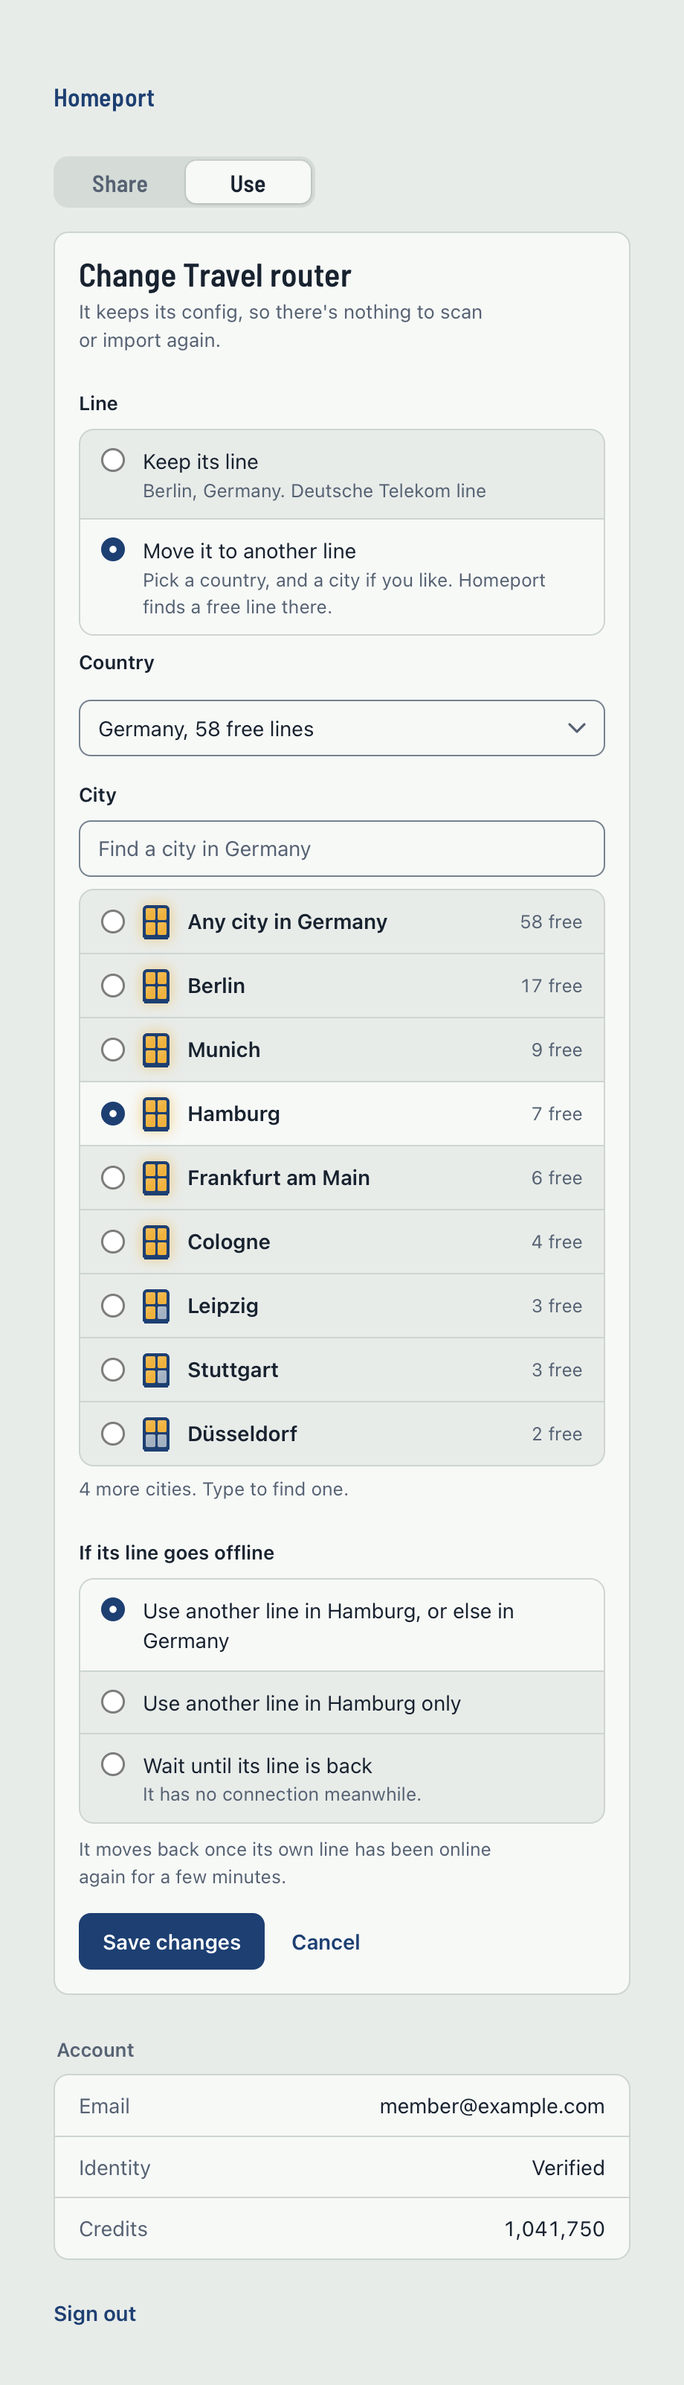
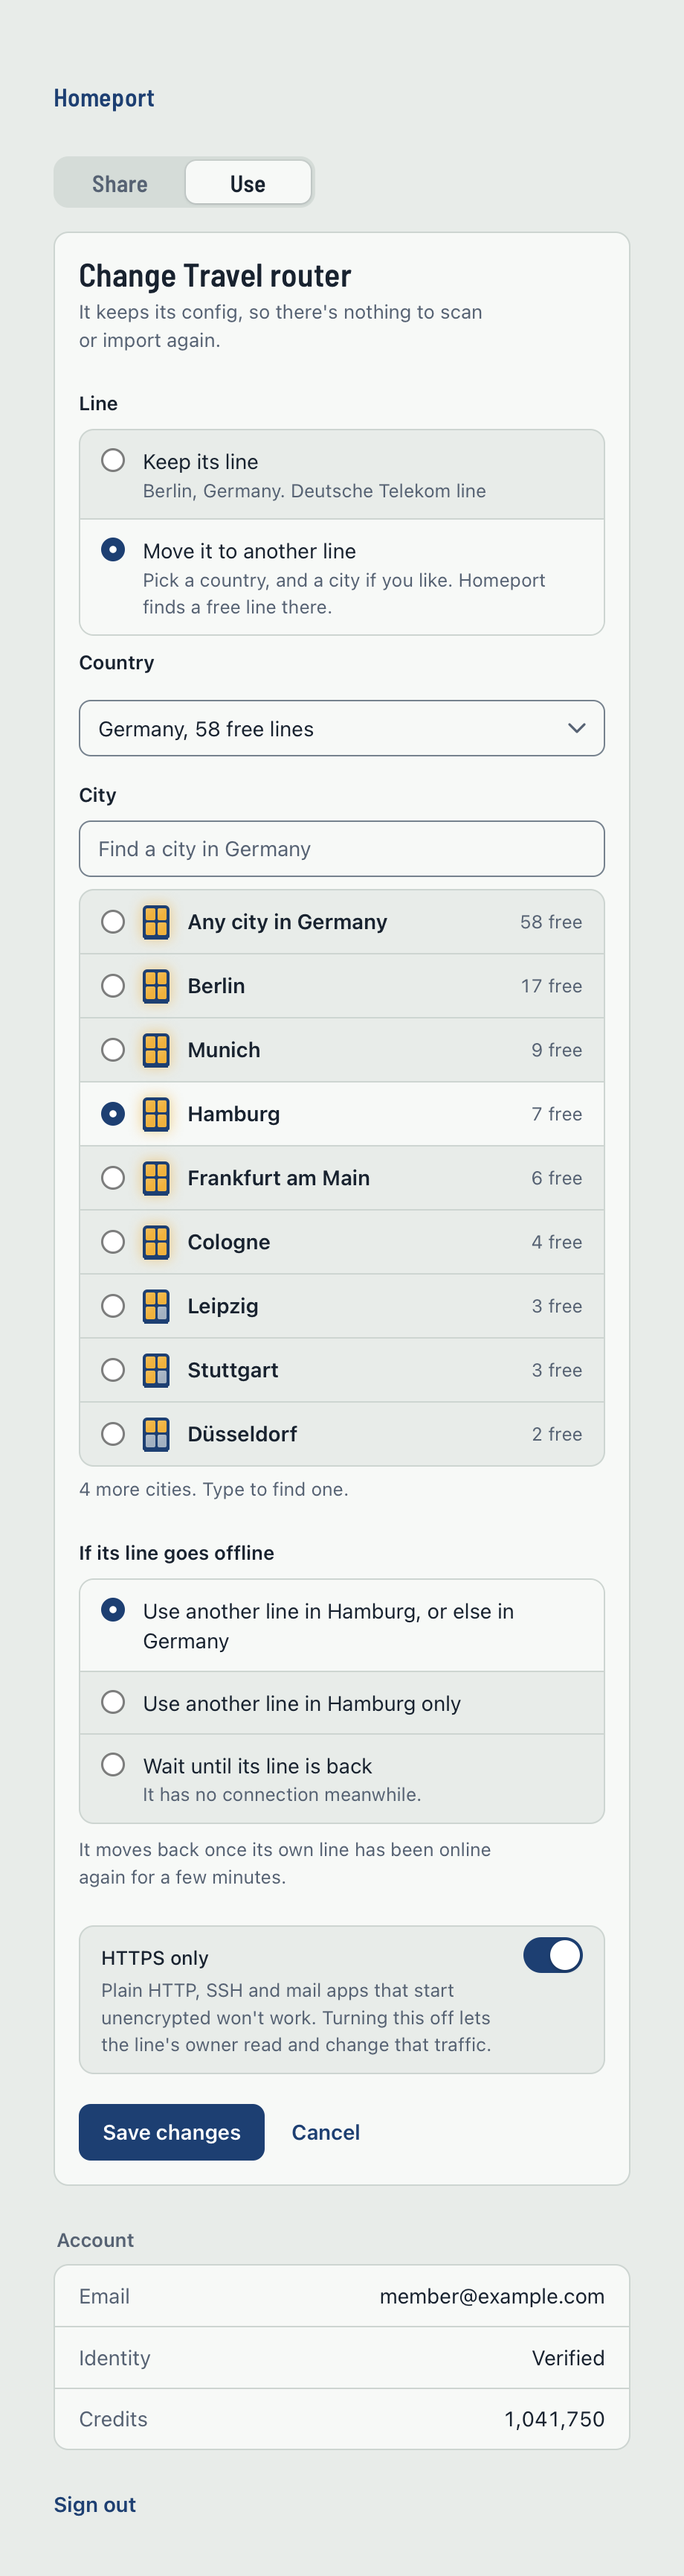
Show HTTPS only in the Add and Change screenshots and README

diff --git a/desktop-app/README.md b/desktop-app/README.md
@@ -119,11 +119,11 @@ Closing the window keeps Share running in the menu bar. Quit stops the agent but
 - **Credits:** `GET /v1/me` gives the bought and earned credits. The app shows what they buy in bytes, at 10 credits per MB (10,000 credits = 1 GB); `bytesPerCredit` in `services/use.go` is its only copy of that price until the API serves it.
 - **Buy credits:** `POST /v1/checkout/sessions` opens Stripe Checkout in the browser. The app polls `GET /v1/me` every 3 seconds, for up to 10 minutes, until the purchased credits rise above where they were; spending meanwhile lowers that mark.
 - **Lines:** `GET /v1/lines/available` lists the lines the member can use, with country, city, ISP and whether the line is online. The API leaves out the member's own lines and lines linked to them.
-- **Add a device:** the app makes the device's X25519 key pair and sends only the public key with `POST /v1/wireguard/peers`. It puts the private key into the returned `config_text` and keeps the config in memory only, as a QR code for the WireGuard app and for "Save .conf file" (written `0600`). Done, signing out or quitting drops it; nothing can show it again. A device whose config is lost is removed and added again.
+- **Add a device:** the app makes the device's X25519 key pair and sends only the public key with `POST /v1/wireguard/peers`. It sends HTTPS only as the Add form has it (on unless the member turns it off). It puts the private key into the returned `config_text` and keeps the config in memory only, as a QR code for the WireGuard app and for "Save .conf file" (written `0600`). Done, signing out or quitting drops it; nothing can show it again. A device whose config is lost is removed and added again.
 - **Devices:** `GET /v1/wireguard/peers` lists them, and Remove deletes one (`DELETE /v1/wireguard/peers/{id}`). The API doesn't report usage per device yet. While the Use tab shows the list, the app reloads the devices (not the lines) every 30 seconds.
 - **Backup lines:** while a device's line is offline, the gateway moves it to another line in the same city, then the same country, as the device's failover allows, and back once its own line has been online for 5 minutes. The list says when a device runs on a backup line, and where, from the peer's `exit_line`.
-- **Change a device:** Change keeps the device's line, or moves it to another free line in a country, and optionally a city, picked as in Add a device; and it sets the failover: same city then same country (the default), same city only, or off. `PATCH /v1/wireguard/peers/{id}` sends only what changed, and the device keeps its config. The API picks the new line on the gateway the device's config names, never its current one, and answers `409 no_free_line` when the region has no other free line there; a 404 means the device was removed.
-- **HTTPS only:** every device starts with it on, and its row has a switch for it. While it's on, the gateway lets through only the device's TCP that opens with TLS, so plain HTTP, SSH and mail apps that start unencrypted don't work; the row says so, and that turning it off lets the line's owner read and change that traffic. The switch sends only `https_only` with `PATCH /v1/wireguard/peers/{id}`, keeps the device's config, and resets its open connections within about 30 seconds. DNS through Homeport and UDP aren't affected.
+- **Change a device:** Change keeps the device's line, or moves it to another free line in a country, and optionally a city, picked as in Add a device; and it sets the failover: same city then same country (the default), same city only, or off; and HTTPS only. `PATCH /v1/wireguard/peers/{id}` sends only what changed, in one request, and the device keeps its config. The API picks the new line on the gateway the device's config names, never its current one, and answers `409 no_free_line` when the region has no other free line there; a 404 means the device was removed.
+- **HTTPS only:** every device starts with it on, unless the Add form turns it off, and its row has a switch for it, as does the Change form. While it's on, the gateway lets through only the device's TCP that opens with TLS, so plain HTTP, SSH and mail apps that start unencrypted don't work; the row says so, and that turning it off lets the line's owner read and change that traffic. The row's switch acts at once and sends only `https_only` with `PATCH /v1/wireguard/peers/{id}`, keeps the device's config, and resets its open connections within about 30 seconds. DNS through Homeport and UDP aren't affected.
 
 POSTs reuse their `request_id` (and for a device, its key pair) after a response that never arrived, so a retry gets the first answer instead of a second Stripe session or peer.
 
